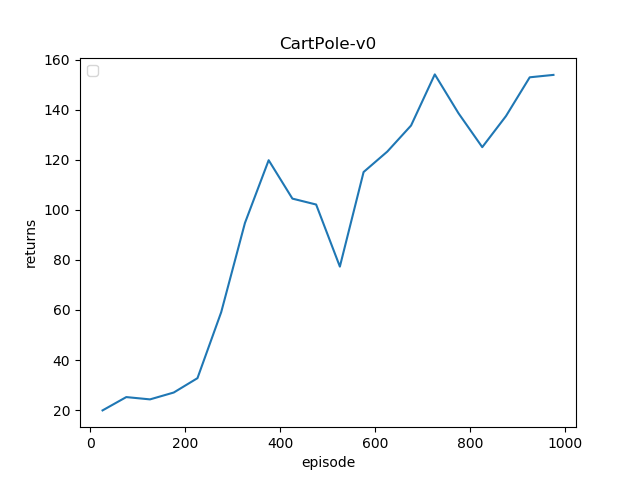
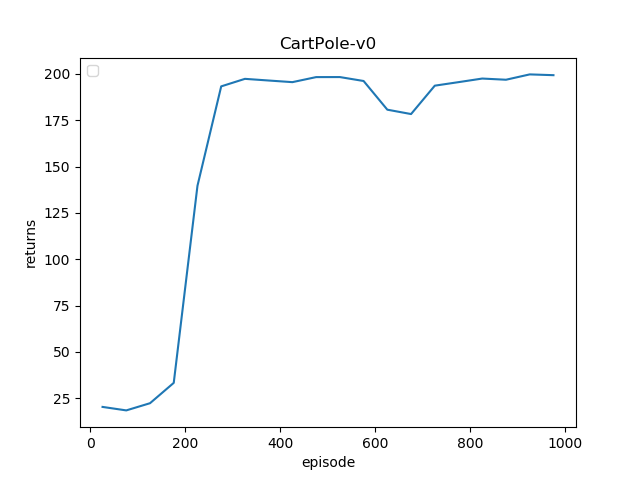
Q Network (#27)
* fix QNetwork bug where output was wrong dimension

* rename QNetwork

* update dqn cartpole with improved results

diff --git a/all/approximation/q_network_test.py b/all/approximation/q_network_test.py
@@ -2,13 +2,14 @@ import unittest
 import torch
 from torch import nn
 from torch.nn.functional import smooth_l1_loss
+import torch_testing as tt
 import numpy as np
-from all.approximation.q_tabular import QTabular
+from all.approximation.q_network import QNetwork
 
 STATE_DIM = 2
 ACTIONS = 3
 
-class TestTabular(unittest.TestCase):
+class TestQNetwork(unittest.TestCase):
     def setUp(self):
         torch.manual_seed(2)
         self.model = nn.Sequential(
@@ -16,7 +17,7 @@ class TestTabular(unittest.TestCase):
         )
         def optimizer(params):
             return torch.optim.SGD(params, lr=0.1)
-        self.q = QTabular(self.model, optimizer)
+        self.q = QNetwork(self.model, optimizer)
 
     def test_eval_list(self):
         states = [
@@ -36,13 +37,25 @@ class TestTabular(unittest.TestCase):
                       [0., 0., 0.]], dtype=np.float32)
         )
 
+    def test_eval_actions(self):
+        states = [
+            torch.randn(1, STATE_DIM),
+            torch.randn(1, STATE_DIM),
+            torch.randn(1, STATE_DIM),
+        ]
+        actions = [1, 2, 0]
+        result = self.q.eval(states, actions)
+        self.assertEqual(result.shape, torch.Size([3]))
+        tt.assert_almost_equal(result, torch.tensor([-0.7262873, 0.3484948, -0.0296164]))
+
+
     def test_target_net(self):
         torch.manual_seed(2)
         model = nn.Sequential(
             nn.Linear(1, 1)
         )
         optimizer = torch.optim.SGD(model.parameters(), lr=0.1)
-        q = QTabular(model, optimizer, loss=smooth_l1_loss, target_update_frequency=3)
+        q = QNetwork(model, optimizer, loss=smooth_l1_loss, target_update_frequency=3)
         inputs = torch.tensor([1.])
         errors = torch.tensor([-1.])
 

diff --git a/all/presets/dqn/classic_control/__init__.py b/all/presets/dqn/classic_control/__init__.py
@@ -3,7 +3,7 @@ from torch import nn
 from torch.optim import Adam
 from torch.nn.functional import mse_loss
 from all.layers import Flatten
-from all.approximation import QTabular
+from all.approximation import QNetwork
 from all.agents import DQN
 from all.policies import GreedyPolicy
 from all.utils import ReplayBuffer
@@ -30,7 +30,7 @@ def dqn_cc(
     def _dqn_cc(env):
         model = fc_net(env)
         optimizer = Adam(model.parameters(), lr=lr)
-        q = QTabular(model, optimizer,
+        q = QNetwork(model, optimizer,
                      target_update_frequency=target_update_frequency,
                      loss=mse_loss)
         policy = GreedyPolicy(q, annealing_time=annealing_time)

diff --git a/all/approximation/q_network.py b/all/approximation/q_network.py
@@ -4,7 +4,7 @@ from torch import optim
 from torch.nn.functional import mse_loss
 from .q_function import QFunction
 
-class QTabular(QFunction):
+class QNetwork(QFunction):
     def __init__(self, model, optimizer=None, loss=mse_loss, target_update_frequency=None):
         self.model = model
         self.optimizer = (optimizer
@@ -44,7 +44,7 @@ class QTabular(QFunction):
         values = self._eval_states(states, model)
         return (
             values if actions is None
-            else values.transpose(0, 1)[actions]
+            else values.gather(1, torch.tensor(actions).view(-1, 1)).squeeze(1)
         )
 
     def _eval_states(self, states, model):

diff --git a/all/presets/dqn/atari/__init__.py b/all/presets/dqn/atari/__init__.py
@@ -2,7 +2,7 @@
 from torch import nn
 from torch.optim import Adam
 from all.layers import Flatten, Dueling
-from all.approximation import QTabular
+from all.approximation import QNetwork
 from all.agents import DQN
 from all.bodies import DeepmindAtariBody
 from all.policies import GreedyPolicy
@@ -80,7 +80,7 @@ def dqn(
     def _dqn(env):
         model = build_model(env)
         optimizer = Adam(model.parameters(), lr=lr)
-        q = QTabular(model, optimizer,
+        q = QNetwork(model, optimizer,
                      target_update_frequency=target_update_frequency
                     )
         policy = GreedyPolicy(q,

diff --git a/all/presets/sarsa/classic_control/__init__.py b/all/presets/sarsa/classic_control/__init__.py
@@ -3,7 +3,7 @@ from torch import nn
 from torch.optim import Adam
 from all.layers import Flatten
 from all.agents import Sarsa
-from all.approximation import QTabular
+from all.approximation import QNetwork
 from all.policies import GreedyPolicy
 
 def fc_net(env, frames=1):
@@ -21,7 +21,7 @@ def sarsa_cc(
     def _sarsa_cc(env):
         model = fc_net(env)
         optimizer = Adam(model.parameters(), lr=lr)
-        q = QTabular(model, optimizer)
+        q = QNetwork(model, optimizer)
         policy = GreedyPolicy(q, annealing_time=1, final_epsilon=epsilon)
         return Sarsa(q, policy)
     return _sarsa_cc

diff --git a/all/approximation/__init__.py b/all/approximation/__init__.py
@@ -1,11 +1,11 @@
 from .q_function import QFunction
-from .q_tabular import QTabular
+from .q_network import QNetwork
 from .v_function import ValueFunction
 from .v_network import ValueNetwork
 
 __all__ = [
     "QFunction",
-    "QTabular",
+    "QNetwork",
     "ValueFunction",
     "ValueNetwork"
 ]
